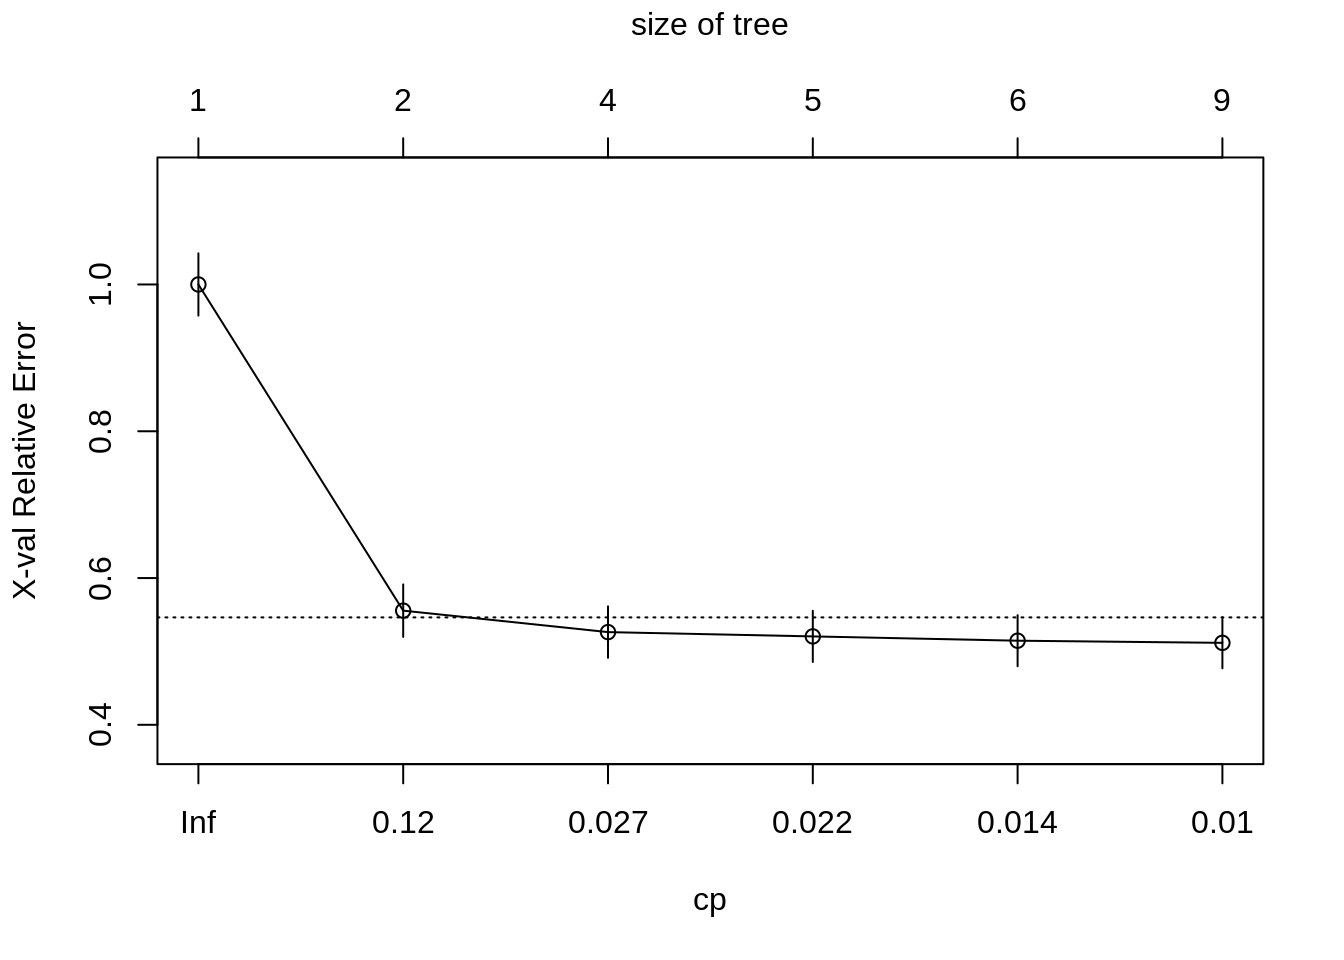
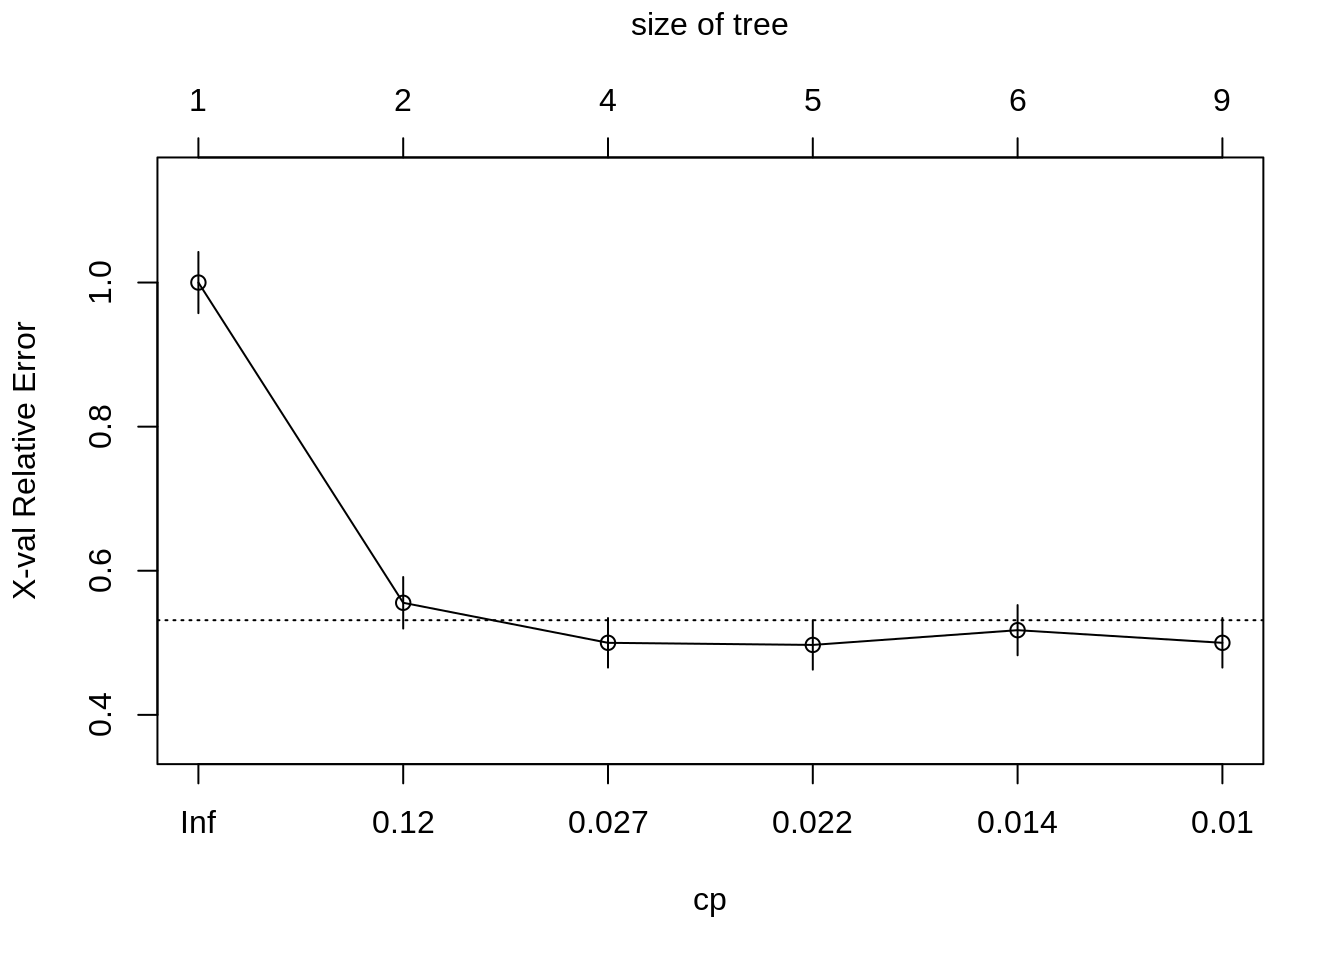
Deploy lebebr01/stat_thinking to github.com/lebebr01/stat_thinking.git:master

diff --git a/docs/classification.html b/docs/classification.html
@@ -324,10 +324,10 @@ titanic &lt;-<span class="st"> </span><span class="kw">bind_rows</span>(titanic_
 ##         CP nsplit rel error  xerror     xstd
 ## 1 0.444444      0   1.00000 1.00000 0.042446
 ## 2 0.030702      1   0.55556 0.55556 0.035750
-## 3 0.023392      3   0.49415 0.52632 0.035043
-## 4 0.020468      4   0.47076 0.52047 0.034897
-## 5 0.010234      5   0.45029 0.51462 0.034749
-## 6 0.010000      8   0.41813 0.51170 0.034675</code></pre>
+## 3 0.023392      3   0.49415 0.50000 0.034372
+## 4 0.020468      4   0.47076 0.49708 0.034295
+## 5 0.010234      5   0.45029 0.51754 0.034823
+## 6 0.010000      8   0.41813 0.50000 0.034372</code></pre>
 <div class="sourceCode"><pre class="sourceCode r"><code class="sourceCode r"><span class="kw">plotcp</span>(class_tree)</code></pre></div>
 <p><img src="05-classification_files/figure-html/unnamed-chunk-6-1.png" width="672" /></p>
 <div class="sourceCode"><pre class="sourceCode r"><code class="sourceCode r">prune_class_tree &lt;-<span class="st"> </span><span class="kw">prune</span>(class_tree, <span class="dt">cp =</span> .<span class="dv">02</span>)

diff --git a/docs/05-classification.md b/docs/05-classification.md
@@ -249,10 +249,10 @@ printcp(class_tree)
 ##         CP nsplit rel error  xerror     xstd
 ## 1 0.444444      0   1.00000 1.00000 0.042446
 ## 2 0.030702      1   0.55556 0.55556 0.035750
-## 3 0.023392      3   0.49415 0.52632 0.035043
-## 4 0.020468      4   0.47076 0.52047 0.034897
-## 5 0.010234      5   0.45029 0.51462 0.034749
-## 6 0.010000      8   0.41813 0.51170 0.034675
+## 3 0.023392      3   0.49415 0.50000 0.034372
+## 4 0.020468      4   0.47076 0.49708 0.034295
+## 5 0.010234      5   0.45029 0.51754 0.034823
+## 6 0.010000      8   0.41813 0.50000 0.034372
 ```
 
 ```r
